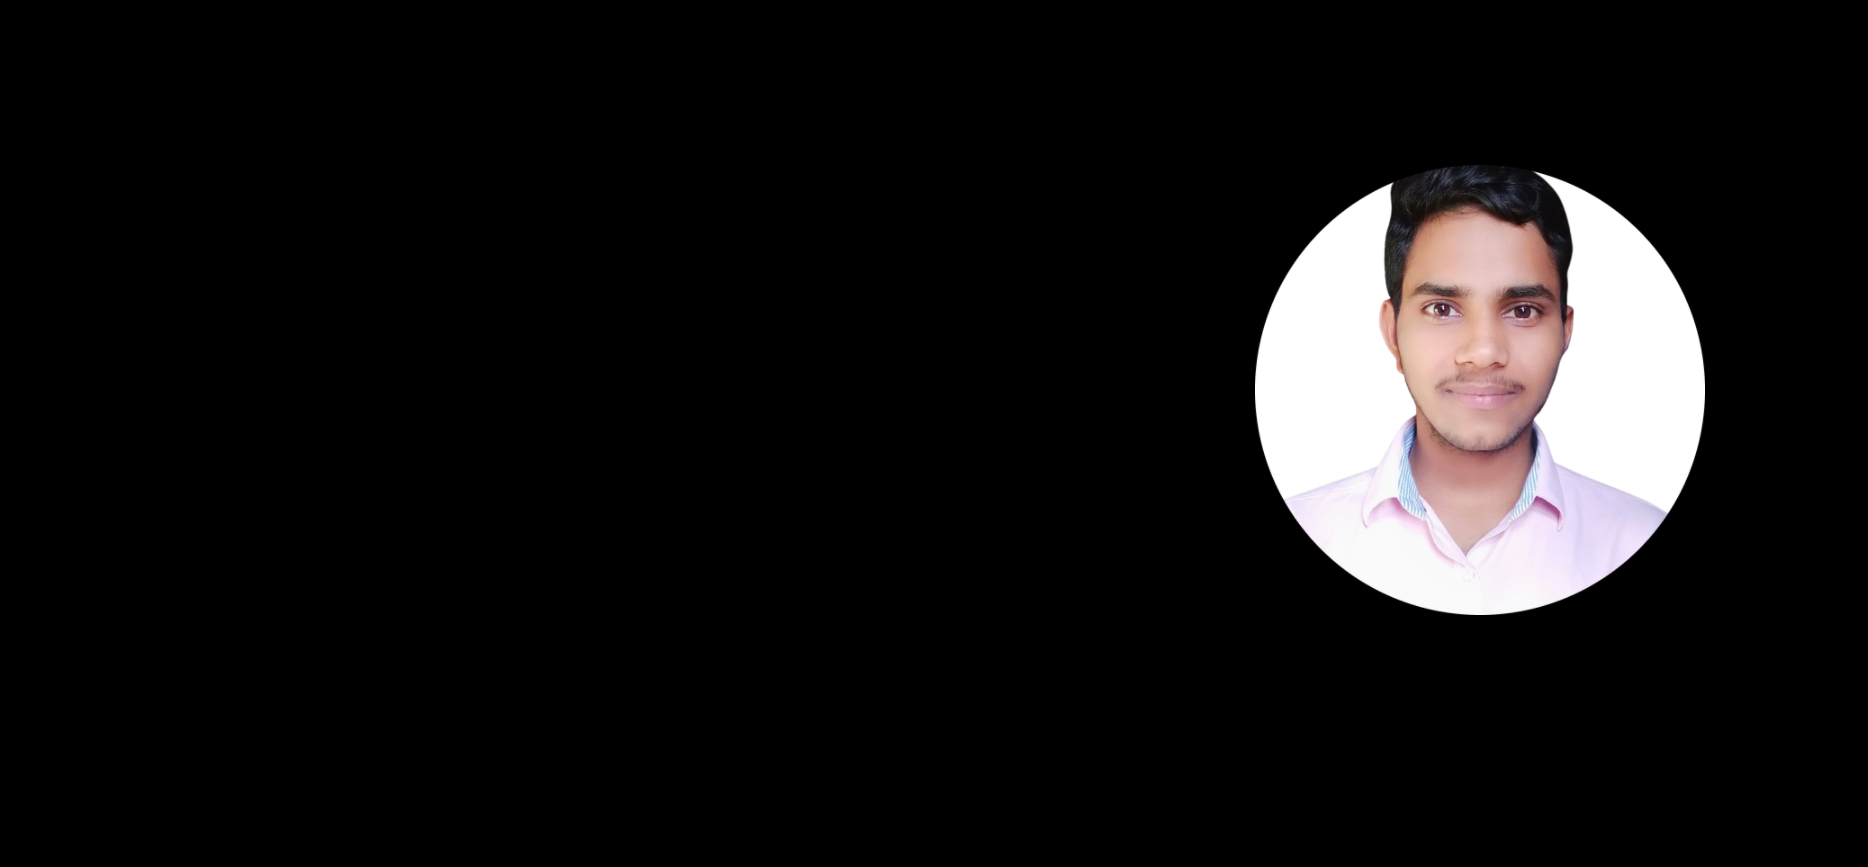
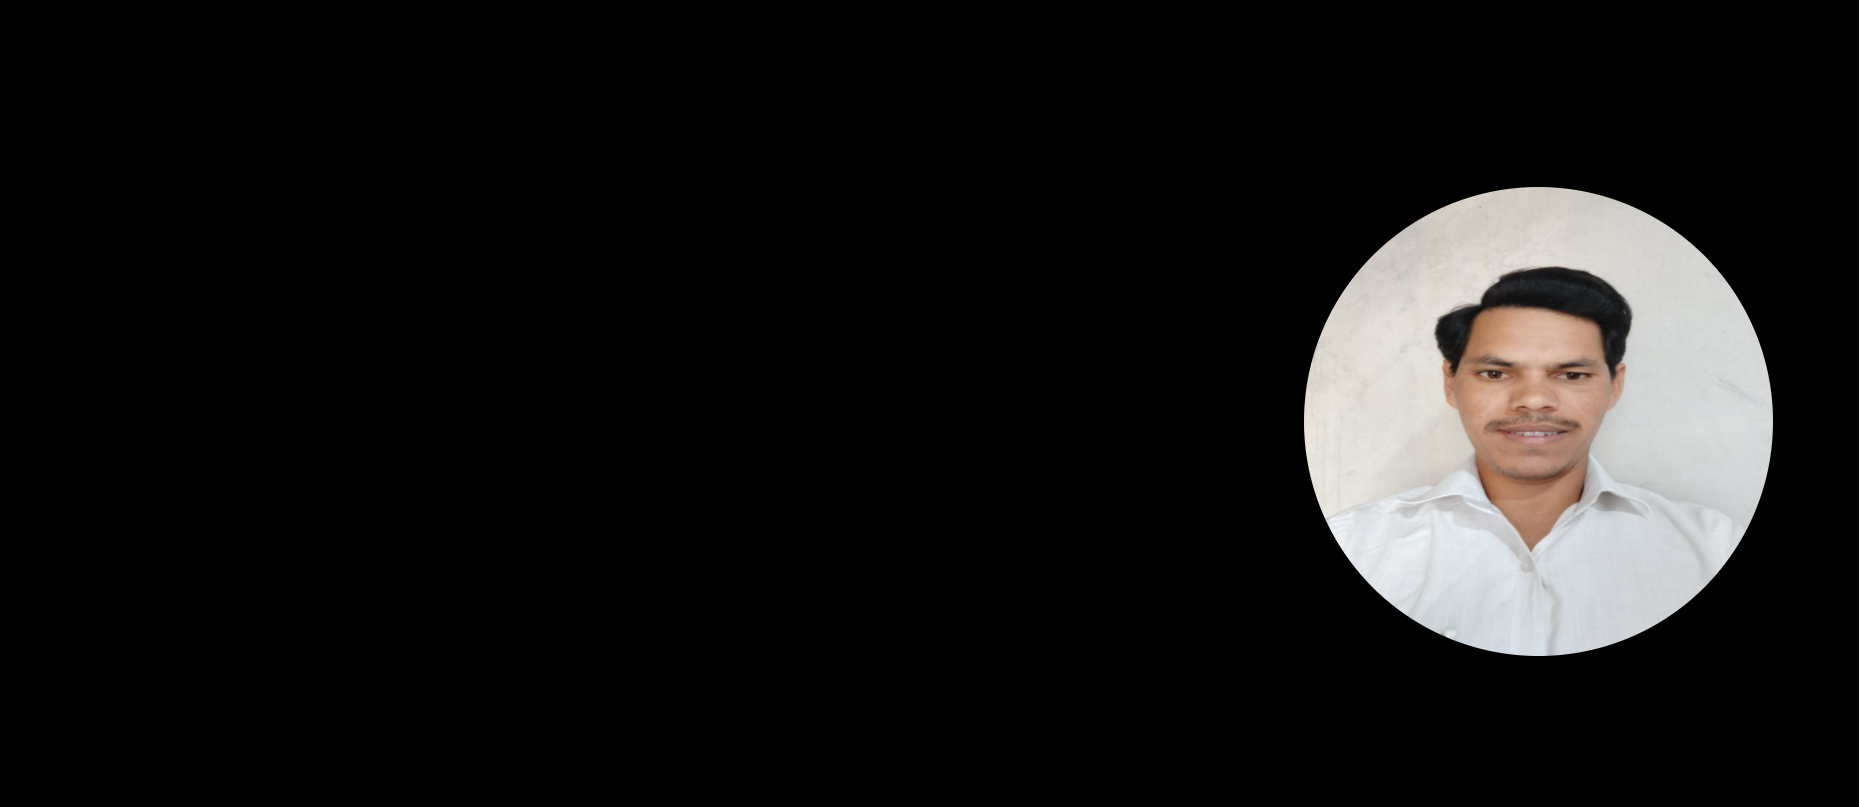
update

Changed region(s): [[0.6545, 0.1859, 0.9661, 0.8364], [0.9973, 0.0, 1.0, 1.0]]

diff --git a/scriptAndPages/about.js b/scriptAndPages/about.js
@@ -5,7 +5,7 @@ about.innerHTML = `
             <h2 class="title">About me</h2>
             <div class="about-content">
                 <div class="column left shadow">
-                    <img src="images/pic.jpeg" alt=""
+                    <img src="images/picture1.jpeg" alt=""
                         style="border-radius: 300px; background-color: rgba(146, 139, 139, 0.068);">
                 </div>
                 <div class="column right">

diff --git a/style.css b/style.css
@@ -169,7 +169,7 @@ section .title::after {
 /* home section styling */
 .home {
   display: flex;
-  background: url("images/pic2.PNG") no-repeat center;
+  background: url("images/background2.png") no-repeat center;
   height: 100vh;
   color: #fff;
   min-height: 500px;
